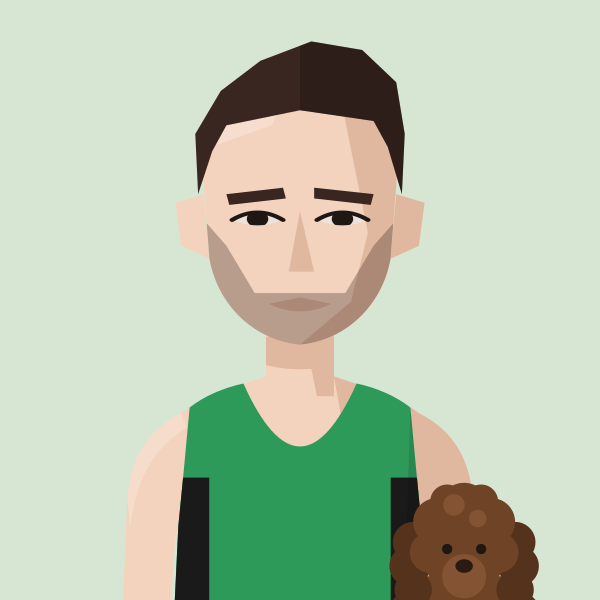
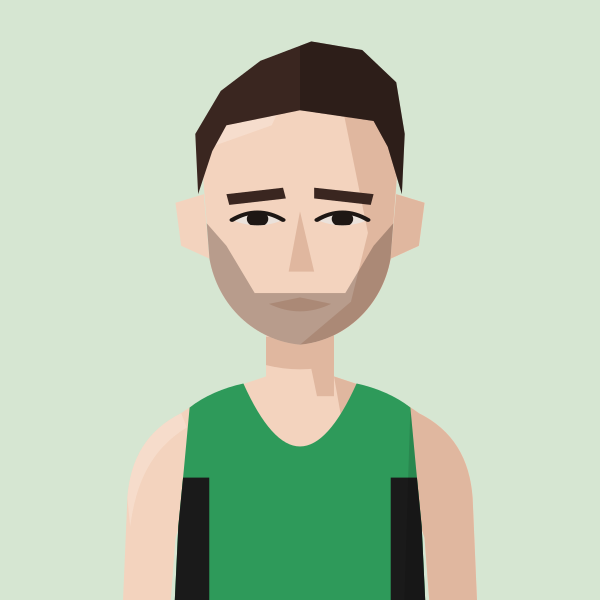
John Sanderson's dog: profile page only, pops up near the end of the blink loop then ducks away
Claude-Session: https://claude.ai/code/session_01MgmDWhFqnSSnP4iBLKXUZC

Changed region(s): [[0.63, 0.78, 0.9, 1.0]]

diff --git a/files/index.html b/files/index.html
@@ -590,12 +590,12 @@ const makeBlinker=t=>t.replace('viewBox="10 20 180 252"','viewBox="-15 -8 230 33
   .replace(/<g fill="none" stroke="(#[0-9A-Fa-f]{6})" stroke-width="1.8" stroke-linecap="round"><path d="M76,112 Q85,105 94,112"\/>((?:(?!<\/g>).)*)<\/g>/,(m,c,rest)=>'<g class="bk" fill="none" stroke="'+c+'" stroke-width="1.8" stroke-linecap="round"><path d="M76,112 Q85,105 94,112"/>'+rest+'</g><g class="bc" fill="none" stroke="'+c+'" stroke-width="1.8" stroke-linecap="round"><path d="M76,112.5 Q85,116.5 94,112.5"/><path d="M106,112.5 Q115,116.5 124,112.5"/></g>')
   .replace('</svg>',BLINK_CSS+'</svg>');
 // Profile portraits: the loader's intermittent blink only (no glance); framing and background unchanged
-const PROFILE_BLINK_CSS='<style>.bk{transform-box:view-box;transform-origin:100px 112.5px;animation:bk 4s .3s infinite}.bc{opacity:0;animation:bc 4s .3s infinite}@keyframes bk{0%,4.5%,100%{transform:scaleY(1)}1.8%,2.7%{transform:scaleY(0)}}@keyframes bc{0%,1.3%,3.3%,100%{opacity:0}1.8%,2.7%{opacity:1}}@media (prefers-reduced-motion:reduce){.bk,.bc{animation:none}}</style>';
+const PROFILE_BLINK_CSS='<style>.bk{transform-box:view-box;transform-origin:100px 112.5px;animation:bk 4s .3s infinite}.bc{opacity:0;animation:bc 4s .3s infinite}@keyframes bk{0%,4.5%,100%{transform:scaleY(1)}1.8%,2.7%{transform:scaleY(0)}}@keyframes bc{0%,1.3%,3.3%,100%{opacity:0}1.8%,2.7%{opacity:1}}.dog{transform:translateY(70px);animation:dog 4s .3s infinite}@keyframes dog{0%,72%{transform:translateY(70px);animation-timing-function:cubic-bezier(.2,1.6,.4,1)}78%,90%{transform:translateY(0);animation-timing-function:cubic-bezier(.6,0,.9,.5)}95%,100%{transform:translateY(70px)}}@media (prefers-reduced-motion:reduce){.bk,.bc,.dog{animation:none}}</style>';
 const makeProfileBlinker=t=>{const o=t
   .replace(/<g (fill="#[0-9A-Fa-f]{6}")><path d="M76,112 Q85,105 94,112 Q85,117/,'<g class="bk" $1><path d="M76,112 Q85,105 94,112 Q85,117')
   .replace(/<g clip-path="url\(#ef\)"([^>]*)>/g,'<g class="bk" clip-path="url(#ef)"$1>')
   .replace(/<g fill="none" stroke="(#[0-9A-Fa-f]{6})" stroke-width="1.8" stroke-linecap="round"><path d="M76,112 Q85,105 94,112"\/>((?:(?!<\/g>).)*)<\/g>/,(m,c,rest)=>'<g class="bk" fill="none" stroke="'+c+'" stroke-width="1.8" stroke-linecap="round"><path d="M76,112 Q85,105 94,112"/>'+rest+'</g><g class="bc" fill="none" stroke="'+c+'" stroke-width="1.8" stroke-linecap="round"><path d="M76,112.5 Q85,116.5 94,112.5"/><path d="M106,112.5 Q115,116.5 124,112.5"/></g>');
-  return o===t?null:o.replace('</svg>',PROFILE_BLINK_CSS+'</svg>');};
+  return o===t&&!t.includes('class="dog"')?null:o.replace('</svg>',PROFILE_BLINK_CSS+'</svg>');};
 const useBlinkSrc=(src,on)=>{const[u,setU]=useState(null);useEffect(()=>{setU(null);if(!on||!src)return;
   try{if(window.matchMedia&&window.matchMedia('(prefers-reduced-motion: reduce)').matches)return;}catch(e){}
   let url=null,live=true;fetch(src).then(r=>r.ok?r.text():null).then(t=>{if(!live||!t||t.includes('M66,104 Q100,98 134,104'))return;const b=makeProfileBlinker(t);if(!b)return;url=URL.createObjectURL(new Blob([b],{type:'image/svg+xml'}));setU(url);}).catch(()=>{});
@@ -683,8 +683,8 @@ return m;})();
 const portraitFile=(name,club)=>{const k=normalizeNameForCompare(name||'').replace(/\s*\(([^)]*)\)$/,(m,c)=>CLUBS[c.toUpperCase()]?'':m);const a=PORTRAITS[k];if(a&&a.club===club)return a.file;const b=PORTRAITS[k+'@'+club];return b?b.file:null;};
 // Athlete header figure: superstar portrait if we have one, else a grey runner in the club vest, else the plain vest icon
 // Changes whenever any portrait changes (set by tools/build_og.py), so browsers fetch fresh images instead of old cached ones
-const PORTRAIT_V='5a349d94';const PORTRAIT_WOMEN='abbey-brooke,abbie-bulbulian,adele-prince,aimee-hargreaves,aisling-ahern,alex-brown,alex-gandee,alex-marginean,alex-miller,alexa-parker,alexandra-barbour,alice-braham,alice-bridger-morales,alice-crane,alice-martin,alice-reed,alice-smith,alison-purnell,alison-thomson,amy-clements,andrea-barber,anika-schwarze-chintapatla,anna-garnier,anna-garnier-hw,anna-sharp,annabel-hobday,annabelle-hadlow,anne-hegvold,annmarie-seymour,ava-mcandie,becky-briggs,bethan-goddard,bethanie-murray,bethany-brown,betsy-griffiths,billie-mcclosky,camilla-barden,caoimhe-nic-fhogartaigh,carolyne-baxter,catherine-bryson,catherine-eastham,catherine-kandie,cathy-ansell,charlotte-griffiths,chloe-beckett,chloe-tighe,chrissie-wellington,claire-grima,clara-pettit,clare-elms,clare-pauzers,dillan-quinn,dorchie-cockerell,eilidh-hide,elinor-skinner,eliza-grant,elizabeth-apsley,elizabeth-stavreski,ella-fennelly,ella-king-powrie,ella-may-hards,ella-newton,ellie-brown,ellie-freeden,eloise-bull,emilie-arnoux,emily-barrett,emily-bradley,emily-lowery,emily-robbins,emma-gordon,emma-howsham,emma-lord,emma-rowland,estle-viljoen,evie-warren,felicity-cole,felicity-harrison,felicity-hayward,fi-maddocks,fiona-de-mauny,florence-wiggins,gabby-collison,gabriel-reynolds,gemma-newport,genevieve-blanch,georgia-curry,georgie-bruinvels,georgie-fenn,georgie-furze,georgie-grgec,gina-galbraith,grace-leyland,grace-richardson,hannah-edwards,hannah-english,heather-statham,heather-statham-cc,helena-corbin,helena-keenan,holly-nixon,holly-pan,imogen-mackie,imogen-wolsey,iona-cousland,isabel-bradley,isabel-brinsden,isabelle-pickett,isobel-hodder,jennifer-nandi,jennifer-smith,jess-reed,jess-saunders,jess-winfield,jessica-davies,jessica-lowe,jodie-favell,josephine-rhodes,julia-bleasdale,julia-wedmore,juliet-hodder,jurgita-levertaviciute,justine-lynch,karen-fenner,karen-xiang,karina-box,kate-axford,kate-williams,kathy-sharpe,katie-ellen-french,katie-good,katie-snowden,katy-hedgethorne,kitty-shepherd-cross,kristina-popadich,lara-bromilow,lara-mangan,laura-goodson,laura-miles,lauren-major,lea-adamson,lily-newton,lisa-bailey,lisa-thomas,lisa-thomas-hw,lizzie-goldie-scot,louise-cooper,lucy-jones,lucy-macalister,lucy-peters,lydia-blackmore,lydia-gallyer-barnett,maddie-mastrolonardo,maddy-whitman,maeve-kenny,margaret-coogan,martina-conner,mary-james,mary-setyabule,matilde-lomba,megan-gildea,mhairi-hall,mimi-corden-lloyd,molly-oconnor,molly-smith,monika-gajek,naomi-lenane,natalie-beadle,natalie-seymour,natasha-lodge,niamh-thompson,nicky-hayes,nicola-cartlidge,nicola-douglas,nikki-sturzaker,olivia-papaioannou,olivia-stillman,orna-mcginley,pamela-mchutchon,patricia-walker,patrizia-gnoato,penny-oliver,rachel-brown,rebecca-barrow,rebekah-edgar,ruby-carter,ruby-whyte-wilding,ruby-woolfe,sally-urquhart,sam-whiting,samantha-munday,sarah-astin,sarah-dewhirst,sarah-grover,sarah-hanley,sarah-holt,sarah-murphy,sarah-palmer,sarah-palmer-ran,sarah-riceman,sarah-young,saron-haileselase,serena-carter,sophie-cowper,sophie-harris,sophie-hicks,sophie-tooley,stacey-ward,steph-hewitt,steph-mccall,steph-mccall-cc,steph-mccall-slh,steph-mitchell,suzanne-swaine,suze-spalding,suzie-harvey,suzy-whatmough,teresa-murphy,tilly-heaton,tilly-heaton-bel,vic-cartwright,vicky-clarke,victoria-barthelmess,victoria-buck,vikki-filsell,zoe-macdonald,zuzana-nemeckova';const PORTRAIT_MEN='aaron-wilson,abdulla-elsadig,adam-leane,adrian-major,adrien-royer,alan-black,alan-mead,alex-brecker,alex-bruce-littlewood,alex-gutteridge,alex-harris,alex-howard,alex-janiaud,alex-lee,alex-lennon,alex-mills,alex-milne,alex-morales,alex-robinson,alex-yee,alexander-marks,amittai-ben-israel,andrew-cumine,andrew-green,andrew-penney,andrew-perfect,andrew-simms,andrew-warburton,andrius-jaksevicius,andy-coley-maud,andy-coley-maud-cc,andy-fyfe,andy-north,andy-paton,andy-weir,angus-butler,angus-lamb,anisse-ismaili,arlo-ludewick,arne-dumez,arthur-peel,ashley-goncalves,barnaby-day,barry-collins,barry-sawyer,ben-clarke,ben-harding,ben-hurley,ben-ireland,ben-millar,ben-paviour,ben-pearce,ben-racle,ben-revill,ben-reynolds,ben-scott,ben-toomer,benedict-whitby,benjamin-hilson,bernie-ford,bill-kerr,bill-weller,bill-weller-wal,bob-harrison,bob-holt,bob-lunnon,bob-rayman,bob-smith,bradley-courtney-pinn,brandon-dewar,brian-gorman,brian-wilder,caleb-hathaway,callum-stewart,cameron-dockerill,cameron-reilly,carl-delaney,charles-herrington,charlie-dabbs,charlie-dickinson,charlie-eastaugh,charlie-manning,charlie-pickett,charlie-rogers,charlie-sandison,charlie-walker,charlie-wyllie,che-compton,chris-busaileh,chris-busaileh-hhh,chris-greenwood,chris-keavey,chris-moss,chris-steer,chris-threadgold,chris-warren,christian-lee,christopher-parker,clive-gilby,clive-shippen,colin-high,colin-pearson,conall-mcnally,conall-whelan,craig-ruddy,dame-dibaba,dan-cliffe,dan-pettitt,daniel-shaw,daniel-wolff,dave-beard,dave-beaver,dave-glassborow,dave-holt,dave-taylor,david-anderson,david-bowers,david-grima,david-north,david-ogden,david-symons,david-walsh,david-williams,deron-fagan,dick-piotrowski,dimos-evangelidis,dominic-kiralyfi,don-anderson,don-faircloth,don-maclean,doug-maughan,duncan-rimmer,dylan-evans,dylan-mitchard,ed-brewer,ed-catmur,ed-gibson,ed-mallett,eddie-herridge,eddie-jodrell,eddie-rolls,edward-chuck,eoin-brady,eoin-molloy,ethan-mccolgan,falilou-kebe,findlay-dyer,finn-johnson,fintan-pearce,frank-tickner,frank-ward,fred-paget,fred-slemeck,freddie-hessian,garret-lee,gary-ribbons,gary-ribbons-ee,gary-staines,gavin-eccles,geoff-biscoe,geoff-jerwood,geoff-north,george-cotton,george-gathercole,george-jackson,george-loxton,george-mallett,george-ogden,gerry-adams,gerry-north,glen-keegan,gordon-pearce,graham-macky,harrison-hayman,harry-guttridge,hector-revill,henry-hart,henry-silverstein,hugo-hewitt,ian-acreman,ian-crowe-wright,ian-ellwood,ian-harkness,indy-barnes,isaac-lutaya,isaac-parker,jack-brotchie,jack-dickson,jack-dormer,jack-hampshire,jack-harrison,jack-hobden,jack-kavanagh,jack-millar,jack-ramm,jack-woods,jacob-brockmann,jake-simmonds,james-bartram,james-blackwood,james-bowler,james-estall,james-ewing,james-fox,james-hancock,james-harvey,james-hoad,james-kelly,james-mcmullan,james-murray,james-nutt,james-preston,james-roberts,james-stockings,james-ward,james-wootton,jamie-crowe,jamie-parkinson,jared-martin,jean-paul-wright,jeff-cunningham,jeremy-dempsey,jermaine-mays,jerry-watson,jim-allchin,jim-rimmer,joe-english,joe-hartley,john-baker,john-bicourt,john-bromley,john-davies,john-dear,john-foss,john-foxall,john-gilbert,john-gladwin,john-hutchins,john-kendall,john-kimaiyo,john-lee,john-lethbridge,john-mather,john-moore,john-roberts,john-sanderson,john-stow,john-sullivan,john-thresher,jon-hobbs,jon-pepper,jon-pepper-slh,jon-phillips,jon-solly,jonathan-cocker,jonathan-collier,jonathan-cornish,jonathan-ratcliffe,jonathan-tipper,jonathon-blackledge,jonny-neville,jonny-scott,jordan-weaver,josh-mitchell,josh-snow,josh-trigwell,jules-gevers,junior-galley,justin-chaston,justin-reid,kassa-tadesse,keith-newton,kevin-nash,kevin-quinn,kevin-sturman,kieran-barnes,kieran-white,knut-hegvold,knut-hegvold-bel,larry-ryan,lawrence-avery,lee-lintern,lewis-lloyd,liam-burthem,lionel-mann,lloyd-kempson,luke-caldwell,mack-downie,malachi-byansi,marcello-bizio,marcelo-fortes,marco-mazzotta,mark-anderson,mark-miles,mark-sinclair,mark-tennyson,mark-waller,martin-dent,martin-lake,martin-lewington,martin-shore,mathew-speed,matt-chaston,matt-jones,matt-wood,matthew-edgar,matthew-houchell,matthew-thomas,matthew-varley,max-bloor,max-heyden,max-milarvie,max-nicholls,michael-baker,michael-mccarthy,mick-woods,mike-beevor,mike-boyle,mike-cummings,mike-farmery,mike-fuller,mike-hayes,mike-kortenray,mike-nouch,mohammed-ismail,monty-hudson,morgan-roberts,nathan-visick,neil-chisholm,neil-phillips,neil-speaight,neil-wilson,nic-lukies,nick-acfield,nick-altmann,nick-bester,nick-bester-hhh,nick-buckle,nick-bundle,nick-goolab,nick-lightfoot,nick-morris,nick-torry,noah-fernandez,norman-stairs,oli-carrington,oliver-carrington,oliver-fox,oliver-reynolds,oliver-young,ollie-foote,ollie-garrod,olly-buck,owen-hind,paddy-roddy,pancho-panchev,paskar-owor,pat-newell,patrick-mcdougall,paul-calver,paul-cheetham,paul-freary,paul-magner,paul-pollock,pete-carton,pete-gardner,peter-clarke,peter-giles,peter-giles-thh,peter-lighting,phil-carstairs,phil-sanders,phil-sesemann,phil-swinburn,phil-wicks,phil-woodford-smith,raj-paranandi,ralph-street,ranjit-bhatia,ray-foley,reece-edwards,rhys-boorman,rian-mccawley,richard-ashe,richard-giles,richard-henderson,richard-langley,richard-mcdowell,richard-ollington,richard-partridge,richard-sun,richard-ward,rob-armstrong,rob-kelly,rob-tuer,robert-elphick,robert-laing,robert-norville,robert-peacock,robert-sesemann,robin-boon,robin-hudson,roger-alsop,roger-alsop-bel,ron-clark,ron-linstead,ronan-tanguy,rory-mcmahon,rory-orsborn,ross-christie,rowan-board,rowan-crichton,russell-dessaix-chin,ryan-hickey,ryan-mccallister,sam-bramwell,sam-charlton,sam-gebreselassie,sam-peters,sam-sommerville,sam-tyas,samuel-dames,samuel-wilcock,sean-cordon,sebastian-anthony,simon-baines,simon-coombes,simon-coppard,simon-holmes,simon-rayner,simon-rayner-hw,simon-wade,simon-wade-hhh,simon-waterhouse,simon-williams,simon-wurr,sonny-nicoll,spencer-barden,stephen-mcleod,stephen-sharp,steve-gardner,steve-jones,steve-smythe,steve-smythe-hhh,stuart-beaney,stuart-major,stuart-major-thh,stuart-mccallum,stuart-paton,terry-booth,thomas-dugre,thomas-gandee,thomas-gardner,thomas-renshaw,tim-alexander,tim-eglen,tim-lawrence,tim-watson,toby-cooke,toby-fletcher,tom-austin,tom-cheetham,tom-conlon,tom-davies,tom-gifford,tom-jervis,tom-lole,tom-south,tom-thornley,tommy-taylor,tony-binda,tony-fairclough,tony-harran,trevor-hart,valdis-pauzers,valentin-rigori,vic-maughan,will-cockerell,will-lewis,will-marshall,will-scott,will-stockley,william-gardner,yacin-yusuf,zach-nolan';
-const AthletePortrait=({name,club,w,fill,onClick,blink})=>{const[failed,setFailed]=useState(false);const file=portraitFile(name,club);const src0=file?`/portraits/athletes/${file}.svg?v=${PORTRAIT_V}`:PORTRAIT_CLUBS.has(club)?`/portraits/clubs/${club.replace(/\//g,'').replace(/&/g,'and')}.svg?v=${PORTRAIT_V}`:null;const blinkSrc=useBlinkSrc(file?src0:null,!!blink);const src=blinkSrc||src0;if(!src||failed)return<div onClick={onClick} className={onClick?'cursor-pointer':''}><ClubShield club={club} size={w}/></div>;const h=Math.round(w*148/126),ih=Math.round(w*1.4);if(fill)return<div onClick={onClick} className="cursor-pointer" style={{alignSelf:'stretch',minHeight:h,aspectRatio:'126 / 148',flexShrink:0,position:'relative',borderRadius:4,overflow:'hidden'}}><img src={src} alt={file?`Portrait of ${name.replace(/\s*\([^)]*\)$/,'')}`:`Runner in ${CLUBS[club]?.name||club} vest`} style={{position:'absolute',top:0,left:0,display:'block',width:'100%',height:'auto'}} onError={()=>setFailed(true)}/></div>;return<div style={{width:w,height:h,borderRadius:4,overflow:'hidden',flexShrink:0}}><img src={src} alt={file?`Portrait of ${name.replace(/\s*\([^)]*\)$/,'')}`:`Runner in ${CLUBS[club]?.name||club} vest`} width={w} height={ih} style={{display:'block',width:w,height:ih}} onError={()=>setFailed(true)}/></div>;};
+const PORTRAIT_V='7fd10700';const PORTRAIT_WOMEN='abbey-brooke,abbie-bulbulian,adele-prince,aimee-hargreaves,aisling-ahern,alex-brown,alex-gandee,alex-marginean,alex-miller,alexa-parker,alexandra-barbour,alice-braham,alice-bridger-morales,alice-crane,alice-martin,alice-reed,alice-smith,alison-purnell,alison-thomson,amy-clements,andrea-barber,anika-schwarze-chintapatla,anna-garnier,anna-garnier-hw,anna-sharp,annabel-hobday,annabelle-hadlow,anne-hegvold,annmarie-seymour,ava-mcandie,becky-briggs,bethan-goddard,bethanie-murray,bethany-brown,betsy-griffiths,billie-mcclosky,camilla-barden,caoimhe-nic-fhogartaigh,carolyne-baxter,catherine-bryson,catherine-eastham,catherine-kandie,cathy-ansell,charlotte-griffiths,chloe-beckett,chloe-tighe,chrissie-wellington,claire-grima,clara-pettit,clare-elms,clare-pauzers,dillan-quinn,dorchie-cockerell,eilidh-hide,elinor-skinner,eliza-grant,elizabeth-apsley,elizabeth-stavreski,ella-fennelly,ella-king-powrie,ella-may-hards,ella-newton,ellie-brown,ellie-freeden,eloise-bull,emilie-arnoux,emily-barrett,emily-bradley,emily-lowery,emily-robbins,emma-gordon,emma-howsham,emma-lord,emma-rowland,estle-viljoen,evie-warren,felicity-cole,felicity-harrison,felicity-hayward,fi-maddocks,fiona-de-mauny,florence-wiggins,gabby-collison,gabriel-reynolds,gemma-newport,genevieve-blanch,georgia-curry,georgie-bruinvels,georgie-fenn,georgie-furze,georgie-grgec,gina-galbraith,grace-leyland,grace-richardson,hannah-edwards,hannah-english,heather-statham,heather-statham-cc,helena-corbin,helena-keenan,holly-nixon,holly-pan,imogen-mackie,imogen-wolsey,iona-cousland,isabel-bradley,isabel-brinsden,isabelle-pickett,isobel-hodder,jennifer-nandi,jennifer-smith,jess-reed,jess-saunders,jess-winfield,jessica-davies,jessica-lowe,jodie-favell,josephine-rhodes,julia-bleasdale,julia-wedmore,juliet-hodder,jurgita-levertaviciute,justine-lynch,karen-fenner,karen-xiang,karina-box,kate-axford,kate-williams,kathy-sharpe,katie-ellen-french,katie-good,katie-snowden,katy-hedgethorne,kitty-shepherd-cross,kristina-popadich,lara-bromilow,lara-mangan,laura-goodson,laura-miles,lauren-major,lea-adamson,lily-newton,lisa-bailey,lisa-thomas,lisa-thomas-hw,lizzie-goldie-scot,louise-cooper,lucy-jones,lucy-macalister,lucy-peters,lydia-blackmore,lydia-gallyer-barnett,maddie-mastrolonardo,maddy-whitman,maeve-kenny,margaret-coogan,martina-conner,mary-james,mary-setyabule,matilde-lomba,megan-gildea,mhairi-hall,mimi-corden-lloyd,molly-oconnor,molly-smith,monika-gajek,naomi-lenane,natalie-beadle,natalie-seymour,natasha-lodge,niamh-thompson,nicky-hayes,nicola-cartlidge,nicola-douglas,nikki-sturzaker,olivia-papaioannou,olivia-stillman,orna-mcginley,pamela-mchutchon,patricia-walker,patrizia-gnoato,penny-oliver,rachel-brown,rebecca-barrow,rebekah-edgar,ruby-carter,ruby-whyte-wilding,ruby-woolfe,sally-urquhart,sam-whiting,samantha-munday,sarah-astin,sarah-dewhirst,sarah-grover,sarah-hanley,sarah-holt,sarah-murphy,sarah-palmer,sarah-palmer-ran,sarah-riceman,sarah-young,saron-haileselase,serena-carter,sophie-cowper,sophie-harris,sophie-hicks,sophie-tooley,stacey-ward,steph-hewitt,steph-mccall,steph-mccall-cc,steph-mccall-slh,steph-mitchell,suzanne-swaine,suze-spalding,suzie-harvey,suzy-whatmough,teresa-murphy,tilly-heaton,tilly-heaton-bel,vic-cartwright,vicky-clarke,victoria-barthelmess,victoria-buck,vikki-filsell,zoe-macdonald,zuzana-nemeckova';const PORTRAIT_MEN='aaron-wilson,abdulla-elsadig,adam-leane,adrian-major,adrien-royer,alan-black,alan-mead,alex-brecker,alex-bruce-littlewood,alex-gutteridge,alex-harris,alex-howard,alex-janiaud,alex-lee,alex-lennon,alex-mills,alex-milne,alex-morales,alex-robinson,alex-yee,alexander-marks,amittai-ben-israel,andrew-cumine,andrew-green,andrew-penney,andrew-perfect,andrew-simms,andrew-warburton,andrius-jaksevicius,andy-coley-maud,andy-coley-maud-cc,andy-fyfe,andy-north,andy-paton,andy-weir,angus-butler,angus-lamb,anisse-ismaili,arlo-ludewick,arne-dumez,arthur-peel,ashley-goncalves,barnaby-day,barry-collins,barry-sawyer,ben-clarke,ben-harding,ben-hurley,ben-ireland,ben-millar,ben-paviour,ben-pearce,ben-racle,ben-revill,ben-reynolds,ben-scott,ben-toomer,benedict-whitby,benjamin-hilson,bernie-ford,bill-kerr,bill-weller,bill-weller-wal,bob-harrison,bob-holt,bob-lunnon,bob-rayman,bob-smith,bradley-courtney-pinn,brandon-dewar,brian-gorman,brian-wilder,caleb-hathaway,callum-stewart,cameron-dockerill,cameron-reilly,carl-delaney,charles-herrington,charlie-dabbs,charlie-dickinson,charlie-eastaugh,charlie-manning,charlie-pickett,charlie-rogers,charlie-sandison,charlie-walker,charlie-wyllie,che-compton,chris-busaileh,chris-busaileh-hhh,chris-greenwood,chris-keavey,chris-moss,chris-steer,chris-threadgold,chris-warren,christian-lee,christopher-parker,clive-gilby,clive-shippen,colin-high,colin-pearson,conall-mcnally,conall-whelan,craig-ruddy,dame-dibaba,dan-cliffe,dan-pettitt,daniel-shaw,daniel-wolff,dave-beard,dave-beaver,dave-glassborow,dave-holt,dave-taylor,david-anderson,david-bowers,david-grima,david-north,david-ogden,david-symons,david-walsh,david-williams,deron-fagan,dick-piotrowski,dimos-evangelidis,dominic-kiralyfi,don-anderson,don-faircloth,don-maclean,doug-maughan,duncan-rimmer,dylan-evans,dylan-mitchard,ed-brewer,ed-catmur,ed-gibson,ed-mallett,eddie-herridge,eddie-jodrell,eddie-rolls,edward-chuck,eoin-brady,eoin-molloy,ethan-mccolgan,falilou-kebe,findlay-dyer,finn-johnson,fintan-pearce,frank-tickner,frank-ward,fred-paget,fred-slemeck,freddie-hessian,garret-lee,gary-ribbons,gary-ribbons-ee,gary-staines,gavin-eccles,geoff-biscoe,geoff-jerwood,geoff-north,george-cotton,george-gathercole,george-jackson,george-loxton,george-mallett,george-ogden,gerry-adams,gerry-north,glen-keegan,gordon-pearce,graham-macky,harrison-hayman,harry-guttridge,hector-revill,henry-hart,henry-silverstein,hugo-hewitt,ian-acreman,ian-crowe-wright,ian-ellwood,ian-harkness,indy-barnes,isaac-lutaya,isaac-parker,jack-brotchie,jack-dickson,jack-dormer,jack-hampshire,jack-harrison,jack-hobden,jack-kavanagh,jack-millar,jack-ramm,jack-woods,jacob-brockmann,jake-simmonds,james-bartram,james-blackwood,james-bowler,james-estall,james-ewing,james-fox,james-hancock,james-harvey,james-hoad,james-kelly,james-mcmullan,james-murray,james-nutt,james-preston,james-roberts,james-stockings,james-ward,james-wootton,jamie-crowe,jamie-parkinson,jared-martin,jean-paul-wright,jeff-cunningham,jeremy-dempsey,jermaine-mays,jerry-watson,jim-allchin,jim-rimmer,joe-english,joe-hartley,john-baker,john-bicourt,john-bromley,john-davies,john-dear,john-foss,john-foxall,john-gilbert,john-gladwin,john-hutchins,john-kendall,john-kimaiyo,john-lee,john-lethbridge,john-mather,john-moore,john-roberts,john-sanderson,john-stow,john-sullivan,john-thresher,jon-hobbs,jon-pepper,jon-pepper-slh,jon-phillips,jon-solly,jonathan-cocker,jonathan-collier,jonathan-cornish,jonathan-ratcliffe,jonathan-tipper,jonathon-blackledge,jonny-neville,jonny-scott,jordan-weaver,josh-mitchell,josh-snow,josh-trigwell,jules-gevers,junior-galley,justin-chaston,justin-reid,kassa-tadesse,keith-newton,kevin-nash,kevin-quinn,kevin-sturman,kieran-barnes,kieran-white,knut-hegvold,knut-hegvold-bel,larry-ryan,lawrence-avery,lee-lintern,lewis-lloyd,liam-burthem,lionel-mann,lloyd-kempson,luke-caldwell,mack-downie,malachi-byansi,marcello-bizio,marcelo-fortes,marco-mazzotta,mark-anderson,mark-miles,mark-sinclair,mark-tennyson,mark-waller,martin-dent,martin-lake,martin-lewington,martin-shore,mathew-speed,matt-chaston,matt-jones,matt-wood,matthew-edgar,matthew-houchell,matthew-thomas,matthew-varley,max-bloor,max-heyden,max-milarvie,max-nicholls,michael-baker,michael-mccarthy,mick-woods,mike-beevor,mike-boyle,mike-cummings,mike-farmery,mike-fuller,mike-hayes,mike-kortenray,mike-nouch,mohammed-ismail,monty-hudson,morgan-roberts,nathan-visick,neil-chisholm,neil-phillips,neil-speaight,neil-wilson,nic-lukies,nick-acfield,nick-altmann,nick-bester,nick-bester-hhh,nick-buckle,nick-bundle,nick-goolab,nick-lightfoot,nick-morris,nick-torry,noah-fernandez,norman-stairs,oli-carrington,oliver-carrington,oliver-fox,oliver-reynolds,oliver-young,ollie-foote,ollie-garrod,olly-buck,owen-hind,paddy-roddy,pancho-panchev,paskar-owor,pat-newell,patrick-mcdougall,paul-calver,paul-cheetham,paul-freary,paul-magner,paul-pollock,pete-carton,pete-gardner,peter-clarke,peter-giles,peter-giles-thh,peter-lighting,phil-carstairs,phil-sanders,phil-sesemann,phil-swinburn,phil-wicks,phil-woodford-smith,raj-paranandi,ralph-street,ranjit-bhatia,ray-foley,reece-edwards,rhys-boorman,rian-mccawley,richard-ashe,richard-giles,richard-henderson,richard-langley,richard-mcdowell,richard-ollington,richard-partridge,richard-sun,richard-ward,rob-armstrong,rob-kelly,rob-tuer,robert-elphick,robert-laing,robert-norville,robert-peacock,robert-sesemann,robin-boon,robin-hudson,roger-alsop,roger-alsop-bel,ron-clark,ron-linstead,ronan-tanguy,rory-mcmahon,rory-orsborn,ross-christie,rowan-board,rowan-crichton,russell-dessaix-chin,ryan-hickey,ryan-mccallister,sam-bramwell,sam-charlton,sam-gebreselassie,sam-peters,sam-sommerville,sam-tyas,samuel-dames,samuel-wilcock,sean-cordon,sebastian-anthony,simon-baines,simon-coombes,simon-coppard,simon-holmes,simon-rayner,simon-rayner-hw,simon-wade,simon-wade-hhh,simon-waterhouse,simon-williams,simon-wurr,sonny-nicoll,spencer-barden,stephen-mcleod,stephen-sharp,steve-gardner,steve-jones,steve-smythe,steve-smythe-hhh,stuart-beaney,stuart-major,stuart-major-thh,stuart-mccallum,stuart-paton,terry-booth,thomas-dugre,thomas-gandee,thomas-gardner,thomas-renshaw,tim-alexander,tim-eglen,tim-lawrence,tim-watson,toby-cooke,toby-fletcher,tom-austin,tom-cheetham,tom-conlon,tom-davies,tom-gifford,tom-jervis,tom-lole,tom-south,tom-thornley,tommy-taylor,tony-binda,tony-fairclough,tony-harran,trevor-hart,valdis-pauzers,valentin-rigori,vic-maughan,will-cockerell,will-lewis,will-marshall,will-scott,will-stockley,william-gardner,yacin-yusuf,zach-nolan';
+const AthletePortrait=({name,club,w,fill,onClick,blink})=>{const[failed,setFailed]=useState(false);const file=portraitFile(name,club);const src0=file?`/portraits/athletes/${file}.svg?v=${PORTRAIT_V}`:PORTRAIT_CLUBS.has(club)?`/portraits/clubs/${club.replace(/\//g,'').replace(/&/g,'and')}.svg?v=${PORTRAIT_V}`:null;const blinkSrc=useBlinkSrc(file?(file==='john-sanderson'?`/portraits/athletes/john-sanderson-dog.svg?v=${PORTRAIT_V}`:src0):null,!!blink);const src=blinkSrc||src0;if(!src||failed)return<div onClick={onClick} className={onClick?'cursor-pointer':''}><ClubShield club={club} size={w}/></div>;const h=Math.round(w*148/126),ih=Math.round(w*1.4);if(fill)return<div onClick={onClick} className="cursor-pointer" style={{alignSelf:'stretch',minHeight:h,aspectRatio:'126 / 148',flexShrink:0,position:'relative',borderRadius:4,overflow:'hidden'}}><img src={src} alt={file?`Portrait of ${name.replace(/\s*\([^)]*\)$/,'')}`:`Runner in ${CLUBS[club]?.name||club} vest`} style={{position:'absolute',top:0,left:0,display:'block',width:'100%',height:'auto'}} onError={()=>setFailed(true)}/></div>;return<div style={{width:w,height:h,borderRadius:4,overflow:'hidden',flexShrink:0}}><img src={src} alt={file?`Portrait of ${name.replace(/\s*\([^)]*\)$/,'')}`:`Runner in ${CLUBS[club]?.name||club} vest`} width={w} height={ih} style={{display:'block',width:w,height:ih}} onError={()=>setFailed(true)}/></div>;};
 const getClubVestSvg=(club)=>{
   const p="M3 0 L6 0 Q7 4 10 5 Q13 4 14 0 L17 0 L17 20 L3 20 Z";
   const id=`fav-${club}`;

diff --git a/tools/gen_portraits.py b/tools/gen_portraits.py
@@ -470,7 +470,9 @@ save("mccallum", figure("H/W", skin=1, hair="messyfringe", hair_colour="#3A2620"
 save("penney", figure("H/W", skin=1, hair="quiff", hair_colour="dark brown"))
 save("dempsey", figure("THH", skin=1, hair="croppeak", hair_colour="blonde"))
 save("hart", figure("BEL", skin=1, hair="tousled", hair_colour="light brown"))
-save("sanderson", with_dog(figure("G&G", skin=1, hair="quiff", hair_colour="dark brown", facial="stubble"), cx=158, cy=214, s=1.2))  # one-off: his dog, placed inside the athlete-page crop
+save("sanderson", figure("G&G", skin=1, hair="quiff", hair_colour="dark brown", facial="stubble"))
+# profile-page-only version: his dog sits inside the athlete-page crop; the site animates it popping up at the end of the blink loop
+save("sanderson_dog", with_dog(figure("G&G", skin=1, hair="quiff", hair_colour="dark brown", facial="stubble"), cx=158, cy=214, s=1.2))
 save("fyfe", figure("BEL", skin=2, hair="tousled", hair_colour="dark brown", facial="stubble"))
 save("hair_tousled", figure("HOL", skin=2, hair="tousled", hair_colour="mid brown"))
 save("saron", figure("BEL", skin=4, hair="ponytail", hair_colour="black"))
@@ -1446,6 +1448,7 @@ SITE_NAMES = {
  "john-hutchins": "hutchins",
  "john-lethbridge": "lethbridge",
  "john-sanderson": "sanderson",
+ "john-sanderson-dog": "sanderson_dog",
  "jonathan-collier": "collier",
  "jonny-scott": "scott",
  "josh-mitchell": "mitchell",
